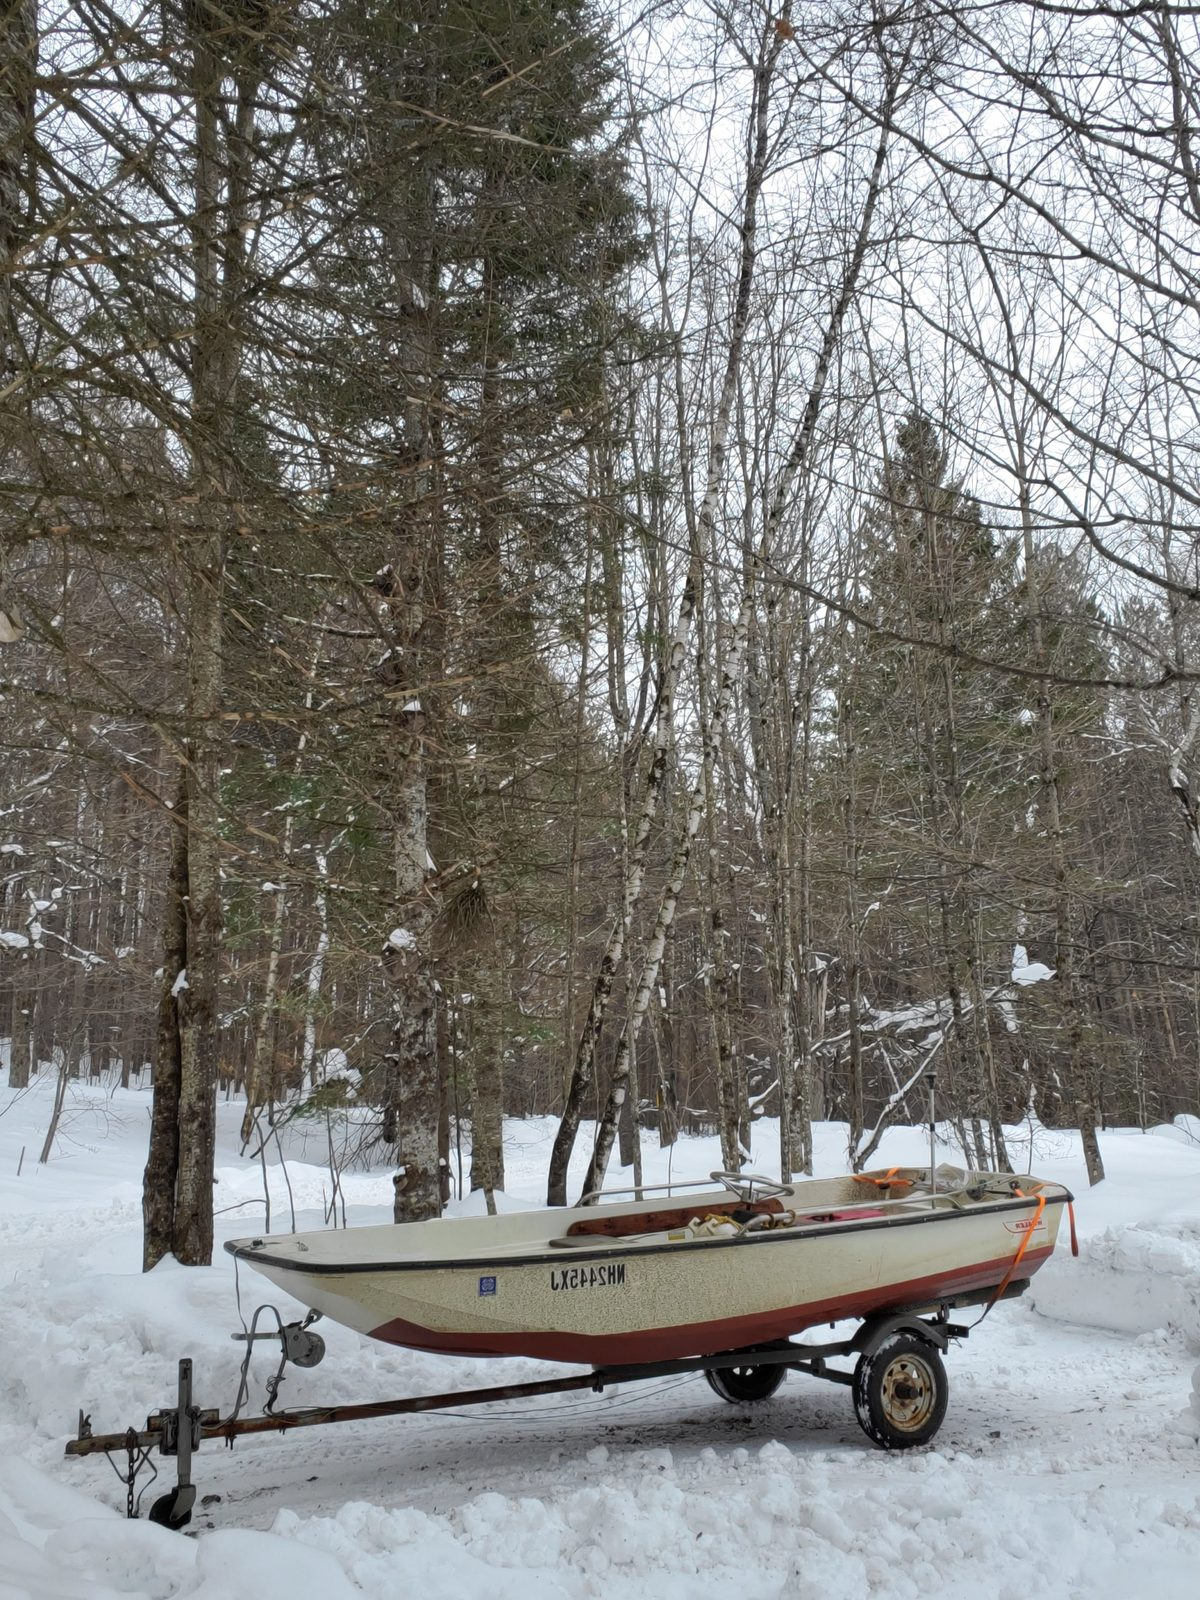
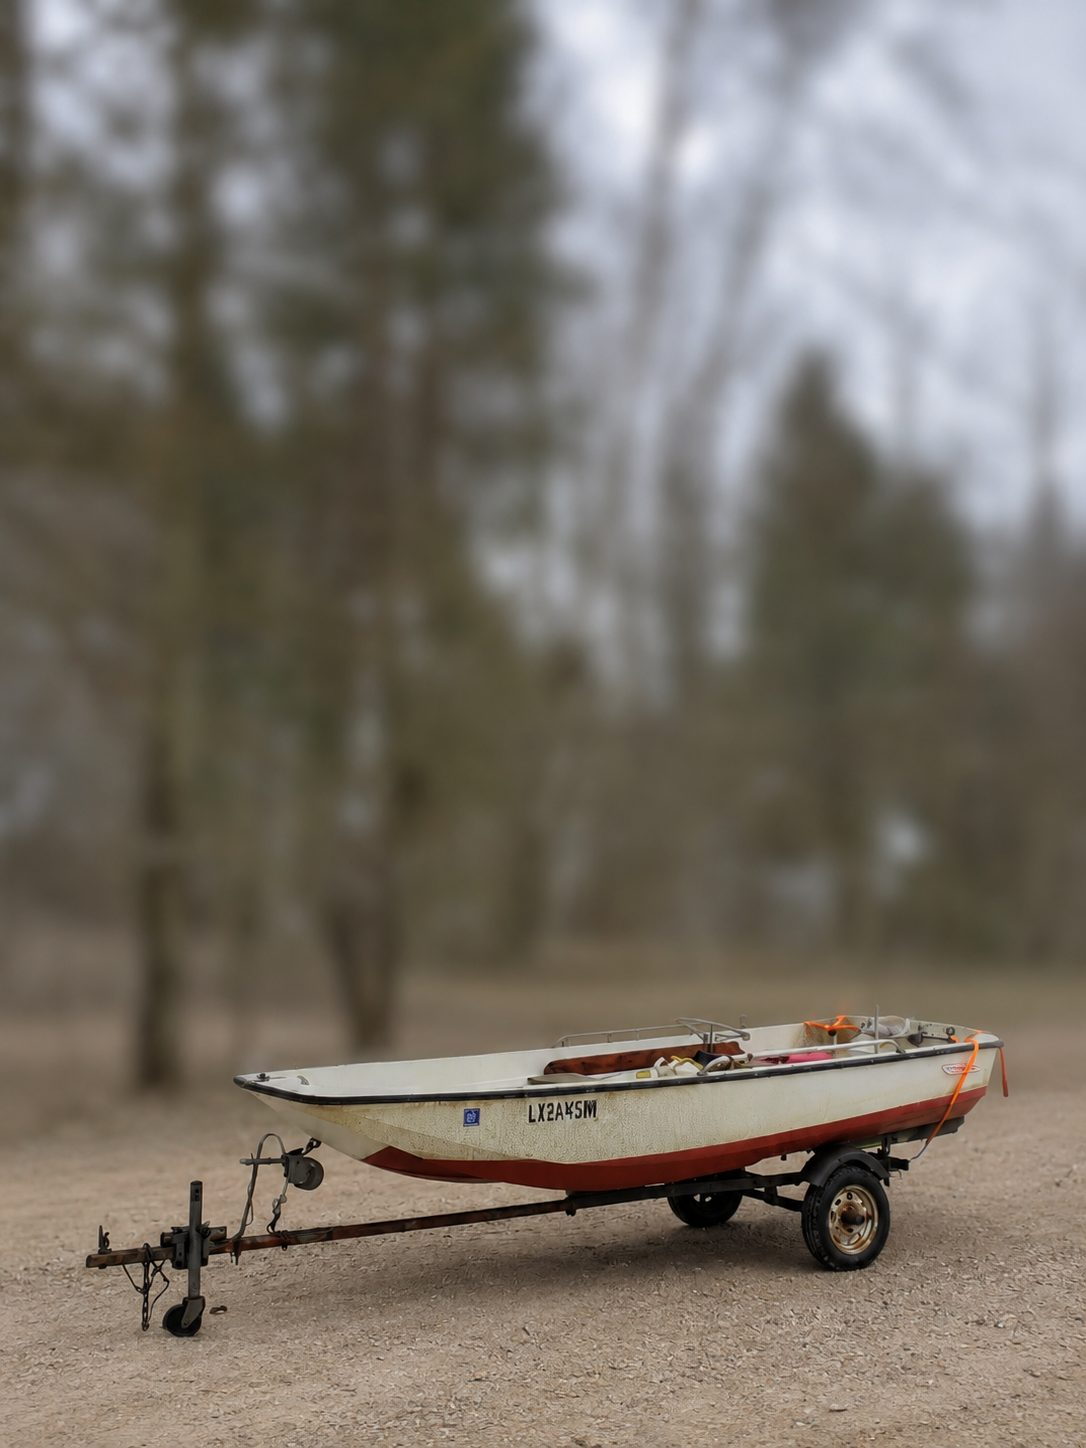
Swap Before photos for no-snow versions
Claude-Session: https://claude.ai/code/session_01WASRyjC5brnWvTi35x8yZK

diff --git a/index.html b/index.html
@@ -5,7 +5,7 @@
   <meta name="viewport" content="width=device-width, initial-scale=1">
   <title>Stardock Incorporated · Boat Sales & Restoration · Florida</title>
   <meta name="description" content="Stardock Incorporated — classic and used boats for sale, plus full boat restoration by a Mercury Outboard Certified technician in Florida. Call or text us.">
-  <link rel="stylesheet" href="styles.css?v=14">
+  <link rel="stylesheet" href="styles.css?v=15">
   <style>
     html, body { margin: 0; }
     body { background: #dfdfe1; }
@@ -121,8 +121,8 @@
   </div>
 
   <!-- Vendored QR generator (no external dependency) -->
-  <script src="qrcode.js?v=14"></script>
+  <script src="qrcode.js?v=15"></script>
   <!-- Site logic + everything you'd edit lives in app.js -->
-  <script src="app.js?v=14"></script>
+  <script src="app.js?v=15"></script>
 </body>
 </html>
